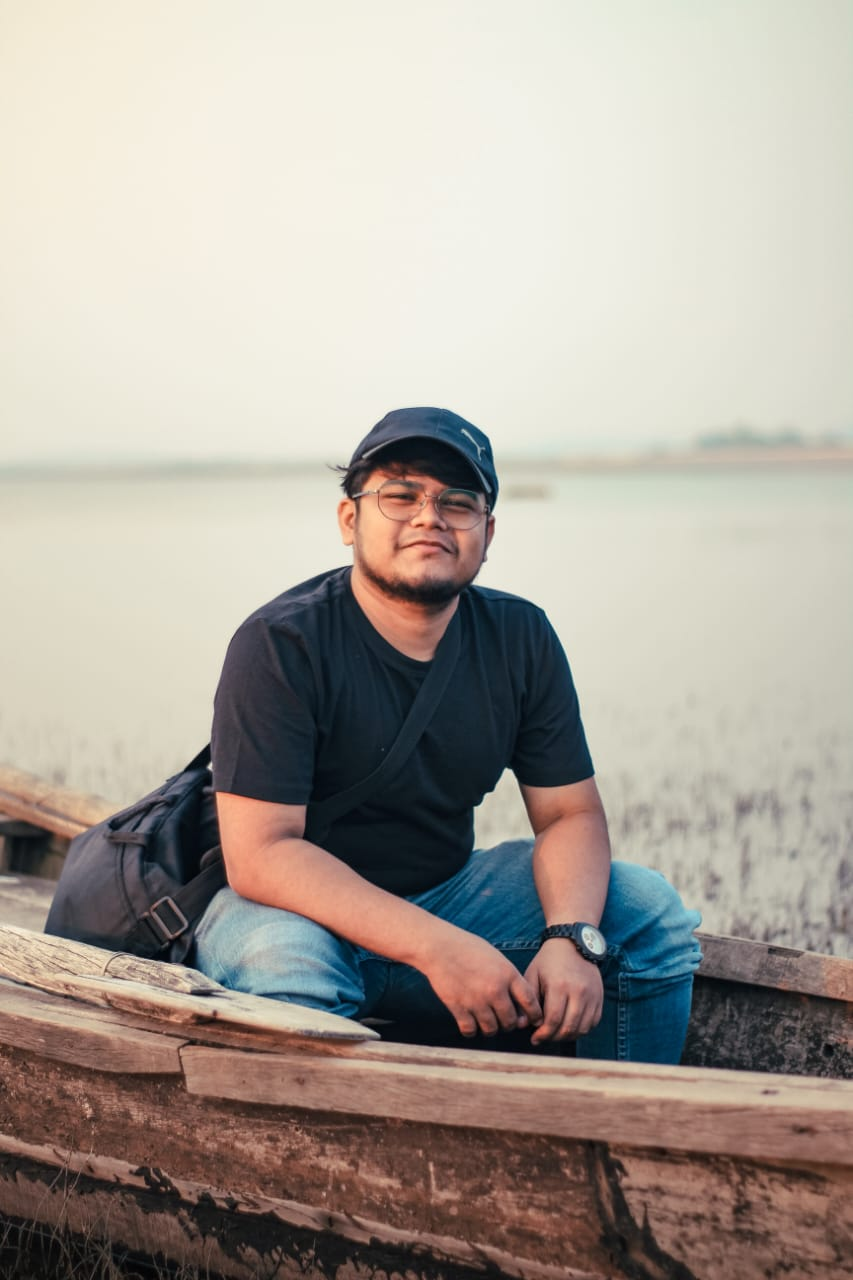
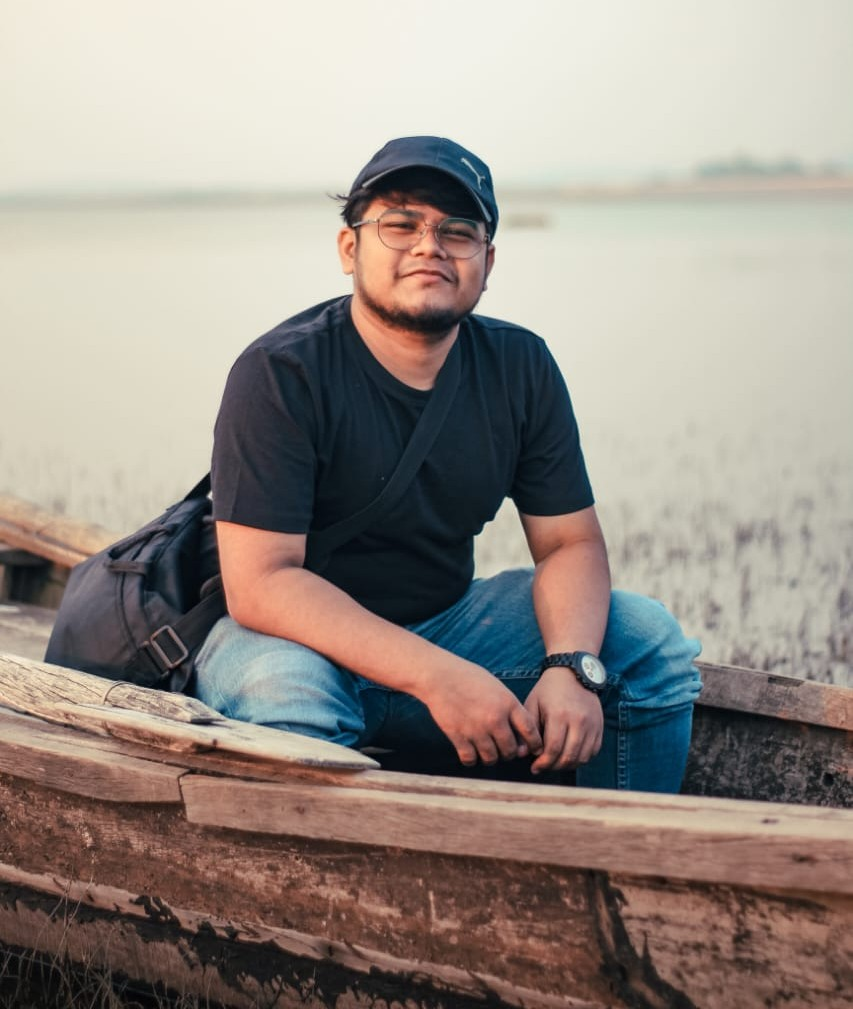
Initial commit

diff --git a/styles.css b/styles.css
@@ -4864,3 +4864,300 @@ transform-origin: top center;
         display: none !important;
     }
 }
+
+
+
+
+
+
+/* ══════════════════════════════════════════════════
+   AVATAR FLIP — COMPLETE FIX v2
+   Root cause: overflow:hidden on a preserve-3d element
+   flattens the 3D context → backface-visibility stops
+   working → both faces render at the same time.
+   Fix: remove overflow from container, clip each face
+   individually with border-radius on the face itself.
+   Paste at very bottom of styles.css.
+══════════════════════════════════════════════════ */
+
+/* ── 1. Container: 3D scene, NO overflow ── */
+#lockAvatarCard {
+    overflow: visible !important;
+    transform-style: preserve-3d !important;
+    transition: transform 0.8s cubic-bezier(0.34, 1.1, 0.64, 1) !important;
+    transform: rotateY(0deg) !important;
+    animation: lockAvatarGlow 5s ease-in-out infinite !important;
+    position: relative !important;
+    cursor: pointer !important;
+    /* Border stays on container for the ring glow */
+    border: 2.5px solid rgba(201,169,110,0.45) !important;
+    background: transparent !important;
+}
+
+/* ── 2. Flipped state ── */
+#lockAvatarCard.flipped {
+    transform: rotateY(180deg) !important;
+}
+
+/* ── 3. Front face: profile.jpg ──
+   Absolutely positioned, clips itself to circle,
+   disappears when card flips. */
+#lockAvatarCard > img:first-of-type {
+    position: absolute !important;
+    inset: 0 !important;
+    width: 100% !important;
+    height: 100% !important;
+    object-fit: cover !important;
+    border-radius: 50% !important;   /* clips the photo to circle */
+    backface-visibility: hidden !important;
+    -webkit-backface-visibility: hidden !important;
+    z-index: 1 !important;
+    display: block !important;
+}
+
+/* Fallback span (shown when profile.jpg missing) */
+#lockAvatarCard > span:first-of-type {
+    backface-visibility: hidden !important;
+    -webkit-backface-visibility: hidden !important;
+}
+
+/* ── 4. Back face: .lock-avatar-back ──
+   Pre-rotated 180° so it starts face-down.
+   overflow:hidden here (not on parent) clips profile1.jpg. */
+#lockAvatarCard .lock-avatar-back {
+    position: absolute !important;
+    inset: 0 !important;
+    border-radius: 50% !important;
+    overflow: hidden !important;        /* safe here — not a preserve-3d parent */
+    transform: rotateY(180deg) !important;
+    backface-visibility: hidden !important;
+    -webkit-backface-visibility: hidden !important;
+    z-index: 1 !important;
+    display: flex !important;
+    flex-direction: column !important;
+    align-items: center !important;
+    justify-content: center !important;
+    background: linear-gradient(135deg, #1a1410, #2a2018) !important;
+}
+
+/* ── 5. profile1.jpg inside back face ── */
+#lockAvatarCard .lock-avatar-back-img {
+    position: absolute !important;
+    inset: 0 !important;
+    width: 100% !important;
+    height: 100% !important;
+    object-fit: cover !important;
+    border-radius: 0 !important;  /* parent's overflow:hidden clips it */
+    z-index: 1 !important;
+    display: block !important;
+}
+
+/* Fallback initials/name block sits above the image */
+#lockAvatarCard .lock-avatar-back-fallback {
+    position: relative !important;
+    z-index: 2 !important;
+    display: flex !important;
+    flex-direction: column !important;
+    align-items: center !important;
+    gap: 6px !important;
+}
+
+/* ── 6. Aurora sweeps — keep behind both faces ── */
+#lockAvatarCard::before,
+#lockAvatarCard::after {
+    z-index: 0 !important;
+    border-radius: 50% !important;
+    backface-visibility: hidden !important;
+    -webkit-backface-visibility: hidden !important;
+}
+/* ── Remove disk/ring animations ── */
+#lockAvatarCard::before,
+#lockAvatarCard::after {
+    display: none !important;
+}
+
+/* ── 7. Tap hint ── */
+#lockAvatarCard .lock-avatar-tap-hint {
+    position: absolute !important;
+    bottom: 14px !important;
+    left: 50% !important;
+    transform: translateX(-50%) !important;
+    z-index: 3 !important;
+    backface-visibility: hidden !important;
+    -webkit-backface-visibility: hidden !important;
+    pointer-events: none !important;
+}
+
+#lockAvatarCard.flipped .lock-avatar-tap-hint {
+    opacity: 0 !important;
+}
+
+
+
+
+/* ══════════════════════════════════════════════════
+   AVATAR FLIP — BACK FACE PHOTO SAFETY NET
+   Paste at very bottom of styles.css (after v2 fix).
+   
+   If profile1.jpg exists  → it shows via the <img> tag.
+   If profile1.jpg missing → CSS background-image shows
+                             profile.jpg as a fallback,
+                             and the AKN text is hidden.
+══════════════════════════════════════════════════ */
+
+/* Always load profile.jpg as a CSS bg on the back face.
+   The <img> (profile1.jpg) sits on top via z-index and
+   covers this if it loads successfully. */
+#lockAvatarCard .lock-avatar-back {
+    background-image: url('profile.jpg') !important;
+    background-size: cover !important;
+    background-position: center top !important;
+}
+
+/* Hide the text fallback — the bg photo covers it.
+   If you want the initials when truly no photo exists,
+   remove these two rules. */
+#lockAvatarCard .lock-avatar-back-fallback {
+    display: none !important;
+}
+
+/* Make the back-img z-index higher so profile1.jpg
+   covers the bg when it does load */
+#lockAvatarCard .lock-avatar-back-img {
+    z-index: 2 !important;
+}
+
+
+
+
+
+
+
+/* ══════════════════════════════════════════════════
+   HERO FLIP — COMPLETE REWRITE (fixes overflow:hidden
+   flattening the 3D context and both faces showing)
+══════════════════════════════════════════════════ */
+
+/* Container: 3D scene, NO overflow (this was the bug) */
+.hero-img-outer {
+    overflow: visible !important;
+    transform-style: preserve-3d !important;
+    transition: transform 0.8s cubic-bezier(0.34, 1.1, 0.64, 1) !important;
+    animation: none !important;
+    cursor: pointer !important;
+    /* rings/glow stay on the container */
+}
+
+.hero-img-outer.flipped {
+    transform: rotateY(180deg) !important;
+}
+
+/* ── Front face: profile.jpg ── */
+.hero-img {
+    position: absolute !important;
+    inset: 0 !important;
+    width: 100% !important;
+    height: 100% !important;
+    object-fit: cover !important;
+    object-position: center top !important;
+    border-radius: 50% !important;   /* clips itself — no parent overflow needed */
+    backface-visibility: hidden !important;
+    -webkit-backface-visibility: hidden !important;
+    z-index: 1 !important;
+    transform: rotateY(0deg) !important;
+}
+
+/* ── Back face wrapper ── */
+.hero-img-back {
+    position: absolute !important;
+    inset: 0 !important;
+    border-radius: 50% !important;
+    overflow: hidden !important;     /* safe here — not a preserve-3d parent */
+    transform: rotateY(180deg) !important;
+    backface-visibility: hidden !important;
+    -webkit-backface-visibility: hidden !important;
+    z-index: 1 !important;
+    background: #0e0c08 !important;
+    /* kill the old flex/text layout */
+    display: block !important;
+    gap: unset !important;
+}
+
+/* ── Back face photo: profile1.jpg ── */
+.hero-img-back .hb-photo {
+    display: block !important;
+    width: 100% !important;
+    height: 100% !important;
+    object-fit: cover !important;
+    object-position: center top !important;
+    border-radius: 0 !important; /* parent clips to circle */
+    backface-visibility: hidden !important;
+}
+
+/* Hide old text children on back face */
+.hero-img-back .hb-initials,
+.hero-img-back .hb-name,
+.hero-img-back .hb-role,
+.hero-img-back .hb-stack {
+    display: none !important;
+}
+
+/* ── Tap hint stays on front only ── */
+.hero-tap-hint {
+    backface-visibility: hidden !important;
+    -webkit-backface-visibility: hidden !important;
+    transition: opacity 0.3s ease !important;
+}
+.hero-img-outer.flipped .hero-tap-hint {
+    opacity: 0 !important;
+    pointer-events: none !important;
+}
+
+/* ── Stat cards & orbit dots stay on top ── */
+.hero-stat-card,
+.hero-orbit-dot {
+    transform-style: flat !important;
+    backface-visibility: visible !important;
+    z-index: 10 !important;
+}
+
+/* ── Mobile: same behaviour ── */
+@media (max-width: 768px) {
+    .hero-img-outer {
+        overflow: visible !important;
+    }
+}
+
+
+
+
+/* ── Remove aurora animation from hero back face only ── */
+.hero-img-back::before,
+.hero-img-back::after {
+    display: none !important;
+    content: none !important;
+}
+
+.hero-img-back {
+    background: #0e0c08 !important;
+}
+
+
+/* ── Hero tap hint — force above front photo ── */
+.hero-tap-hint {
+    z-index: 20 !important;
+    position: absolute !important;
+    bottom: 14px !important;
+    left: 50% !important;
+    transform: translateX(-50%) !important;
+    pointer-events: none !important;
+    white-space: nowrap !important;
+    text-shadow: 0 1px 4px rgba(0,0,0,0.8) !important;
+    background: rgba(0,0,0,0.45) !important;
+    padding: 3px 10px !important;
+    border-radius: 20px !important;
+    border: 1px solid rgba(255,255,255,0.1) !important;
+    font-size: 0.52rem !important;
+    letter-spacing: 0.12em !important;
+    color: rgba(255,255,255,0.55) !important;
+}

diff --git a/portfolio.html b/portfolio.html
@@ -377,21 +377,20 @@
                     <div class="hero-glow-ring" aria-hidden="true"></div>
                     <div class="hero-glow-ring-2" aria-hidden="true"></div>
 
-                    <div class="hero-img-outer" onclick="flipHeroAvatar()">
+<div class="hero-img-outer" id="heroImgOuter" onclick="flipHeroAvatar()">
+
+    <!-- FRONT: profile.jpg -->
     <img src="profile.jpg" alt="Amit Kumar Nayak" class="hero-img" loading="eager">
 
-    <!-- Back face -->
+    <!-- BACK: profile1.jpg -->
     <div class="hero-img-back">
-        <div class="hb-initials">AKN</div>
-        <div class="hb-name">Amit Kumar<br>Nayak</div>
-        <div class="hb-role">Full Stack Developer</div>
-        <div class="hb-stack">
-            <span>React</span>
-            <span>Node.js</span>
-            <span>WebRTC</span>
-            <span>MongoDB</span>
-        </div>
+        <img src="profile1.jpg" alt="Amit Kumar Nayak" class="hb-photo">
     </div>
+
+    <!-- Tap hint -->
+    <div class="hero-tap-hint">tap to flip</div>
+
+</div>
 
     <!-- Tap hint -->
     <div class="hero-tap-hint">tap to flip</div>
